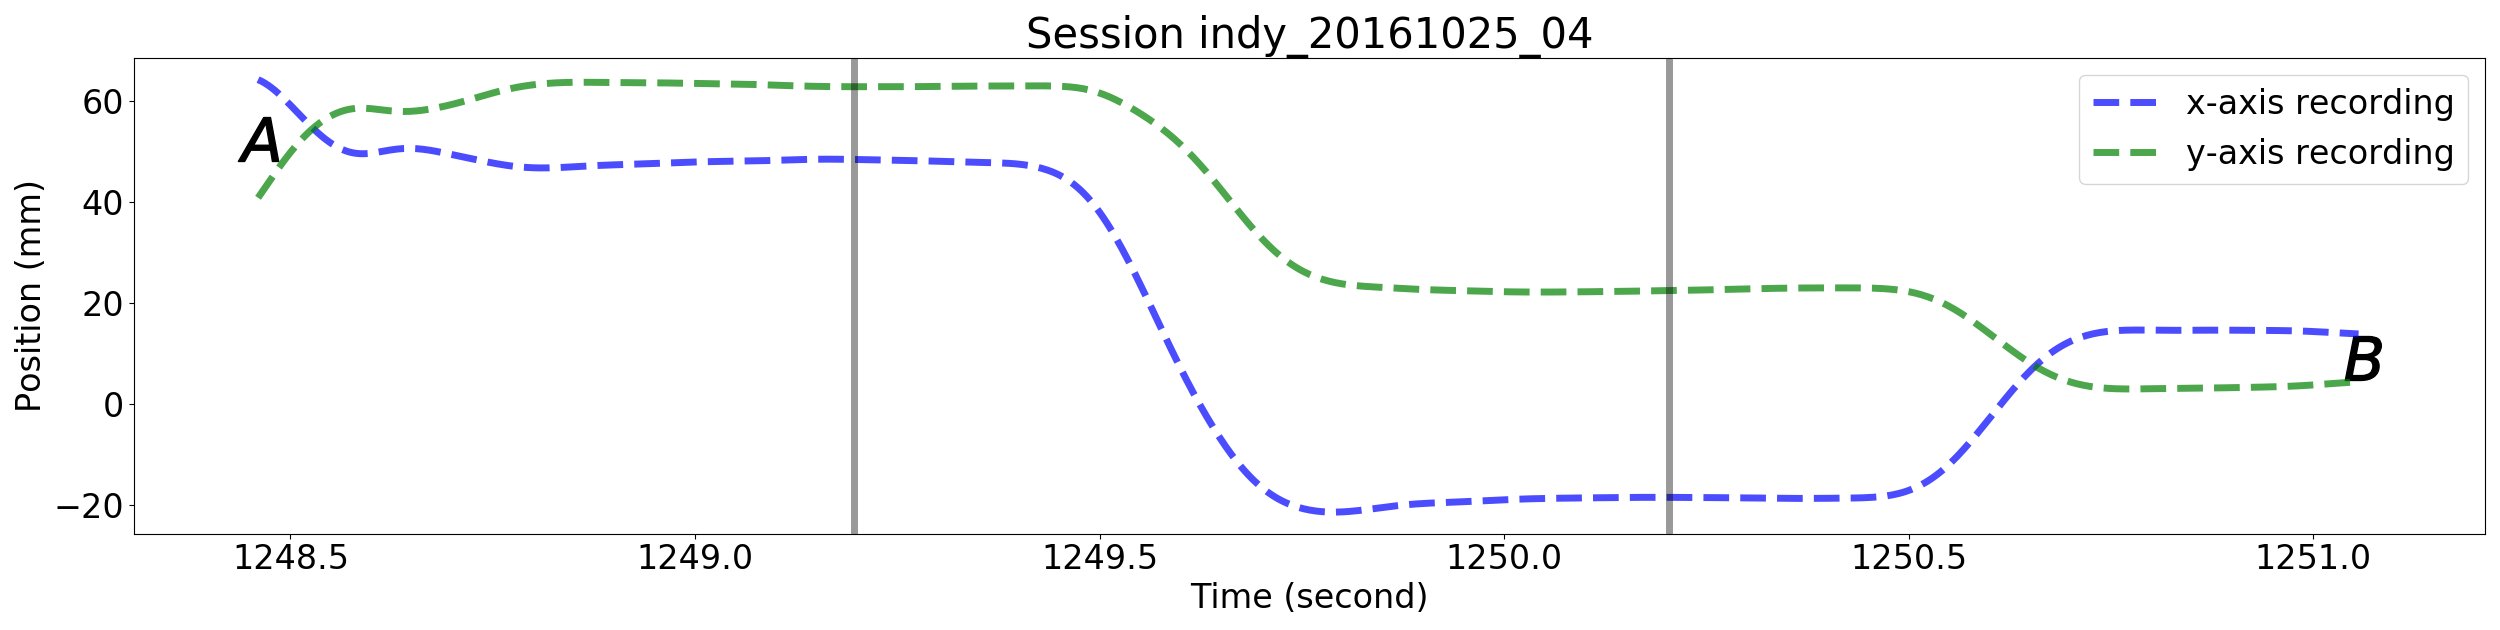
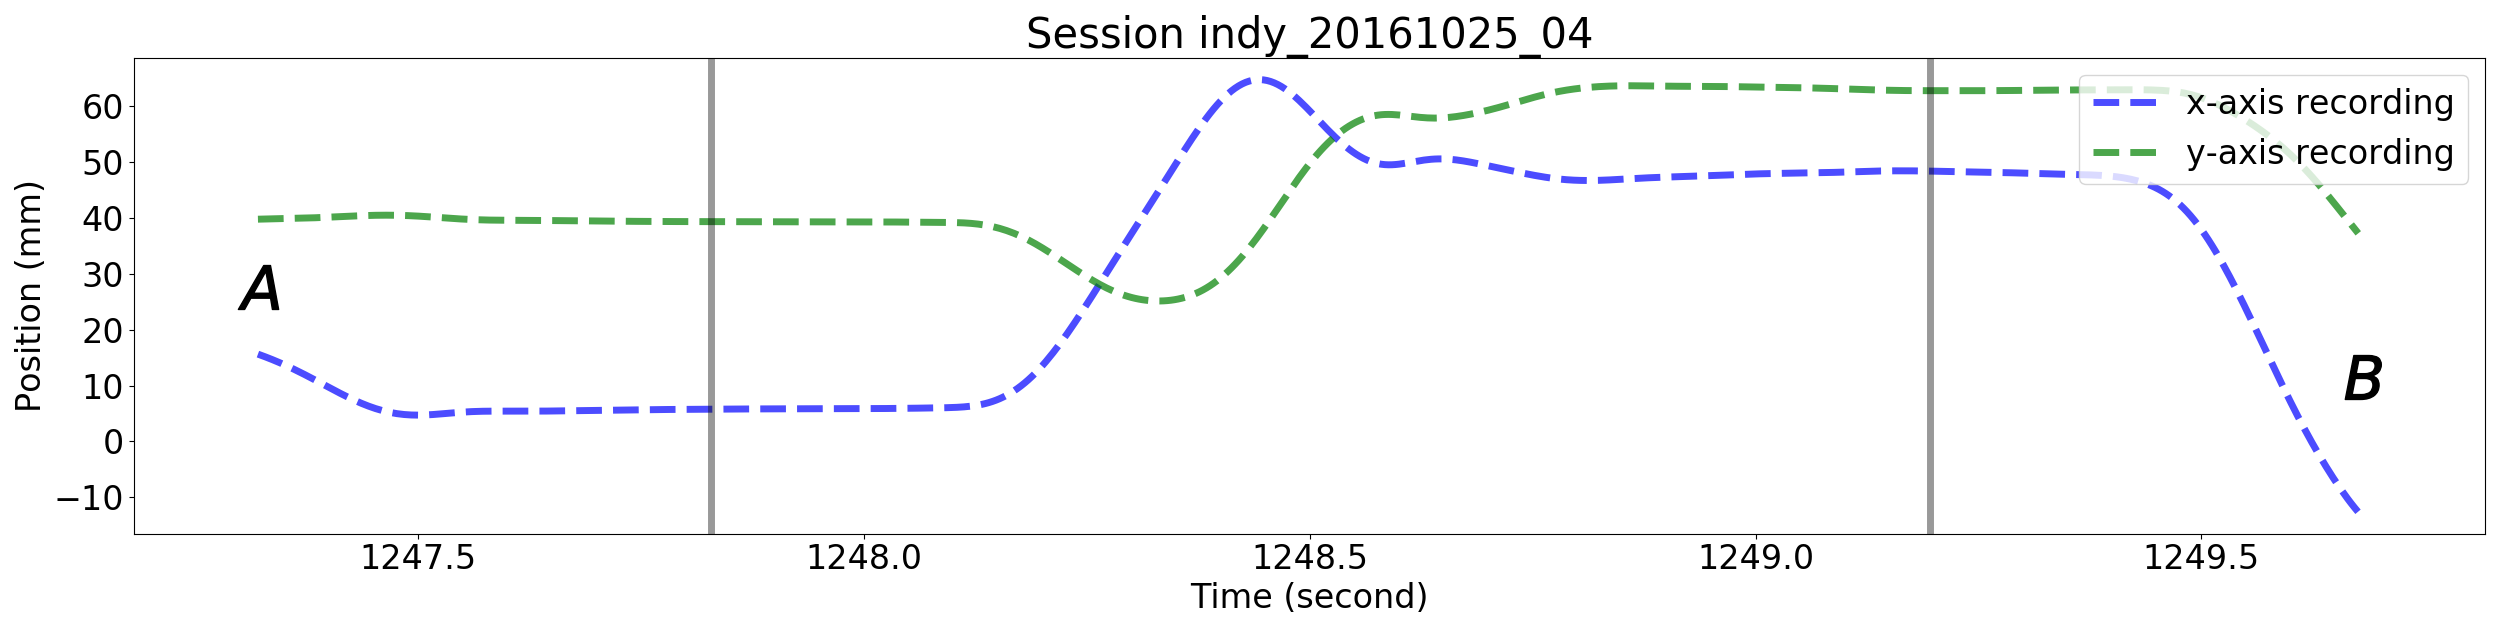
new

diff --git a/Python_code/Read_mat_file_and_Plot/plot_x_y_trajectory.py b/Python_code/Read_mat_file_and_Plot/plot_x_y_trajectory.py
@@ -102,8 +102,8 @@ plot.close()
 
 
 # Plot trajectory in VR panel
-plot_start_sample_time = 10125 #10100
-plot_end_sample_time = plot_start_sample_time + 650 # 1830 before for more trials
+plot_start_sample_time = 9840 #10125
+plot_end_sample_time = plot_start_sample_time + 590 # 1830 before for more trials
 
 plot.figure(figsize=(9,9))
 plot.scatter( target_x_coor, target_y_coor, color='black', s=80)
